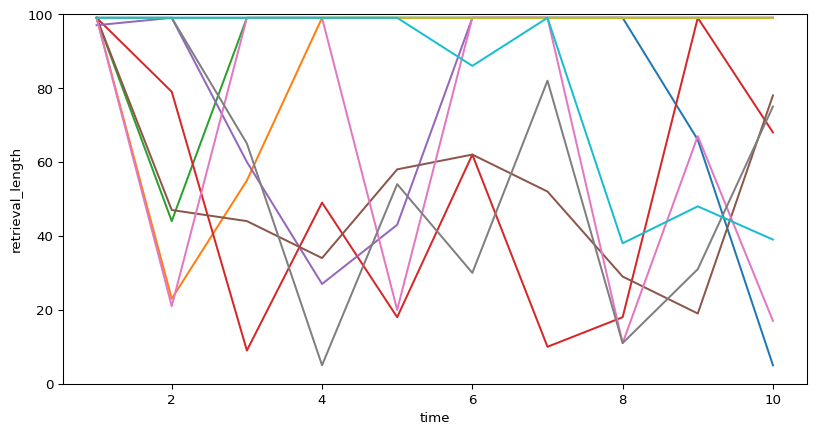
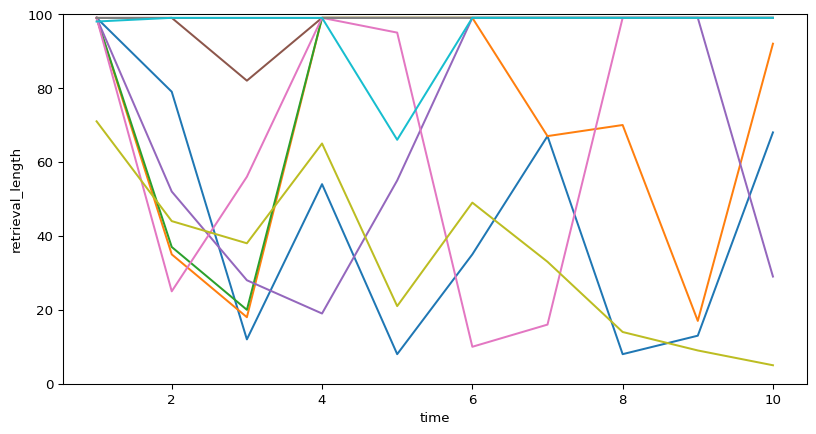
Publish site to docs/

diff --git a/ogm_model/docs/ogm_model.html b/ogm_model/docs/ogm_model.html
@@ -193,28 +193,28 @@
 
 <section id="testing" class="title-slide slide level1 center">
 <h1>Testing</h1>
-<div id="ed3a66e6" class="cell" data-execution_count="5">
+<div id="33686876" class="cell" data-execution_count="5">
 <div class="cell-output cell-output-stdout">
 <pre><code>99
-98
+45
 99
 99
+42
 99
 99
-99
-99
-86
-13
-20
-41
-8
-99
-34
-41
-55
-99
-99
-99</code></pre>
+62
+10
+11
+97
+63
+28
+94
+25
+81
+26
+52
+49
+64</code></pre>
 </div>
 </div>
 </section>
@@ -222,7 +222,7 @@
 <section id="exploration-and-visualization" class="title-slide slide level1 center">
 <h1>Exploration and Visualization</h1>
 <p>First, visualizing the retrieval lengths of an agent over ten time units.</p>
-<div id="78113341" class="cell" data-execution_count="7">
+<div id="aa6d55d9" class="cell" data-execution_count="7">
 <div class="cell-output cell-output-display">
 <div>
 <figure>
@@ -232,7 +232,7 @@
 </div>
 </div>
 <p>Next, Plotting average and final retrieval lengths across different parameters</p>
-<div id="06d80782" class="cell" data-execution_count="8">
+<div id="29dfa3e6" class="cell" data-execution_count="8">
 <div class="cell-output cell-output-display">
 <div>
 <figure>
